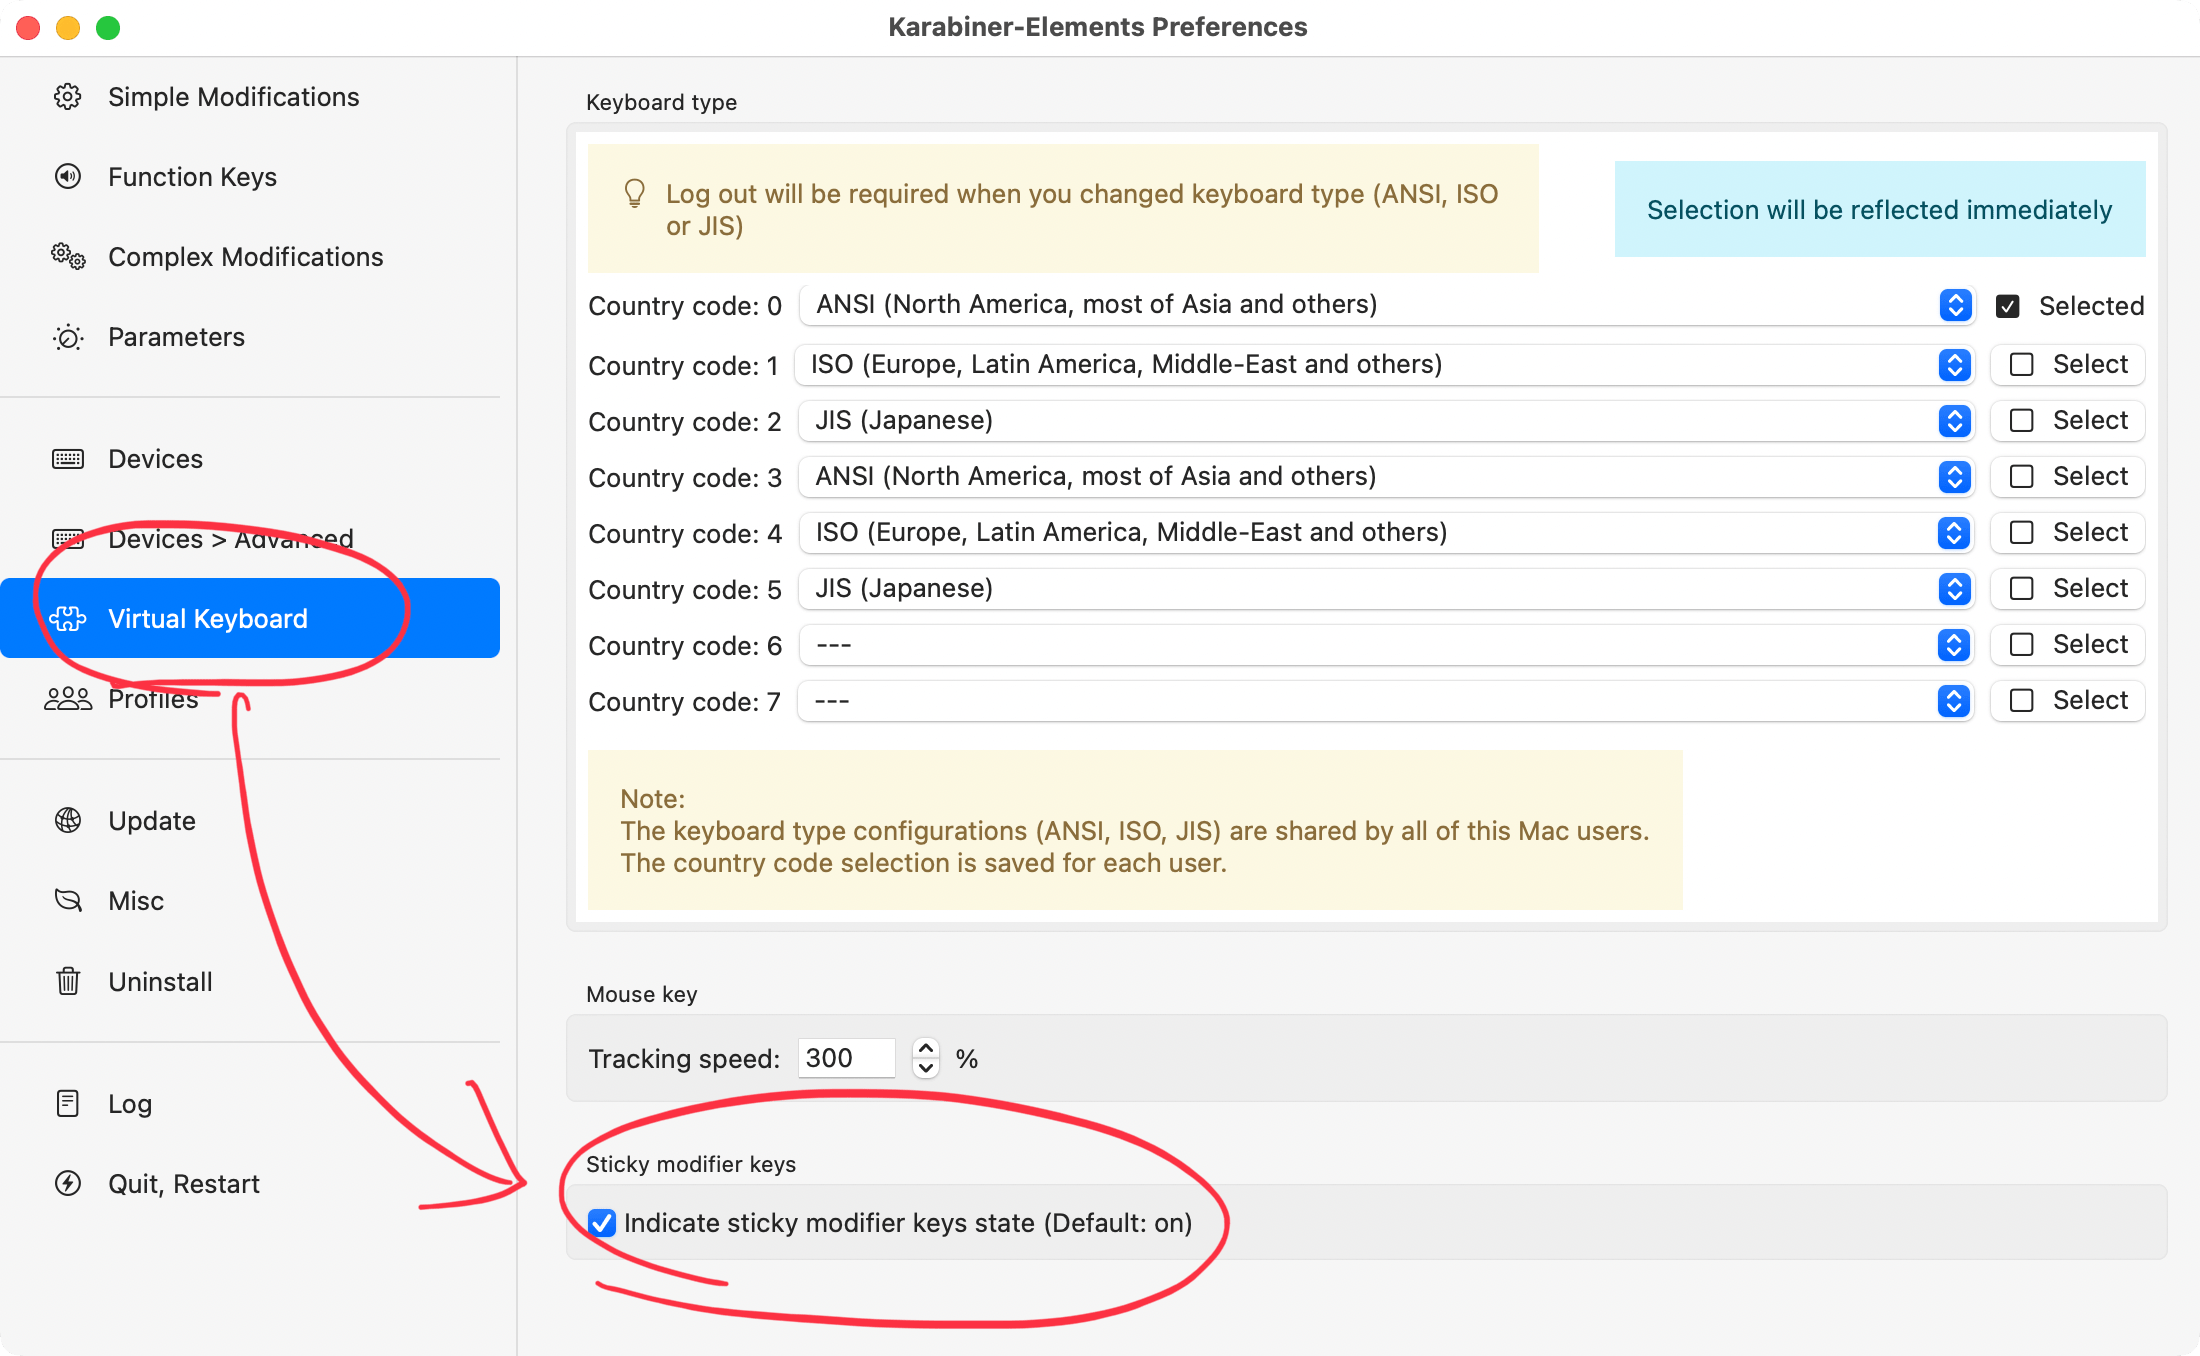
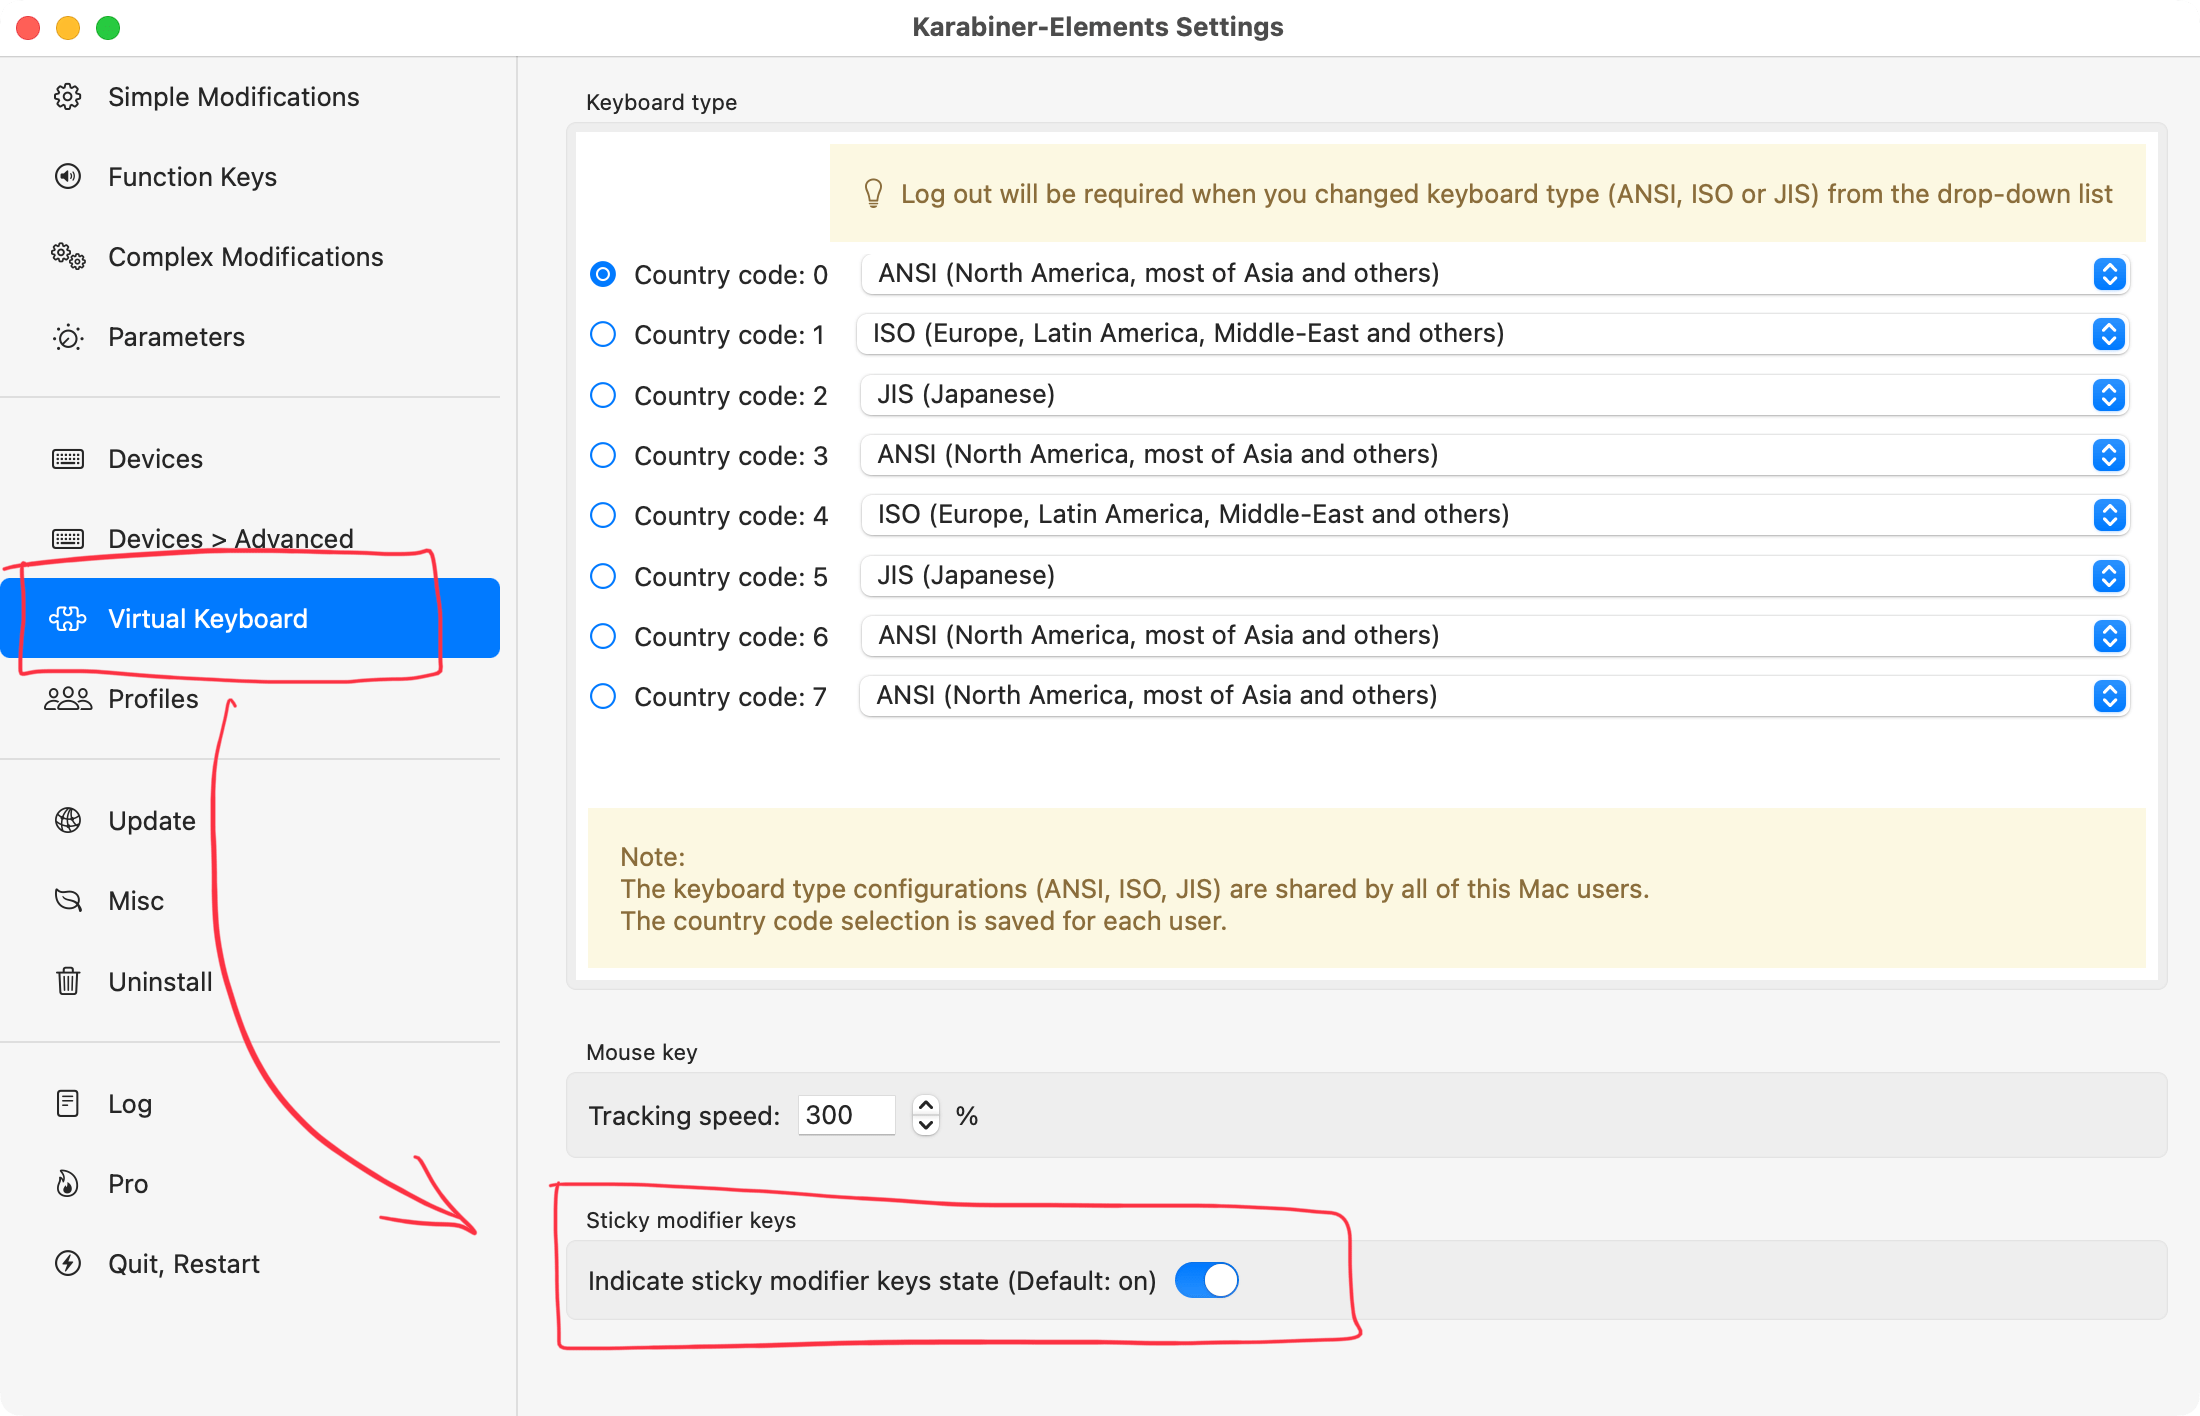
Update help/how-to/sticky-modifier-key

diff --git a/sites/karabiner-elements/content/en/docs/help/how-to/sticky-modifier-key/index.md b/sites/karabiner-elements/content/en/docs/help/how-to/sticky-modifier-key/index.md
@@ -3,7 +3,7 @@ title: 'How to use sticky modifier keys'
 weight: 150
 ---
 
-You can enable the sticky modifier keys from Preferences &gt; Simple modifications.
+You can enable the sticky modifier keys from Karabiner-Elements Settings &gt; Simple modifications.
 
 {{< local-image src="images/to-keys@2x.png" >}}
 
@@ -30,7 +30,7 @@ Sticky modifier key indicator will be shown while the sticky modifiers are activ
 
 {{< local-image src="images/sticky-modifier-key-indicator@2x.png" >}}
 
-You can hide the indicator from Preferences &gt; Virtual keyboard.
+You can hide the indicator from Karabiner-Elements Settings &gt; Virtual keyboard.
 
 {{< local-image src="images/indicator-configuration@2x.png" >}}
 
